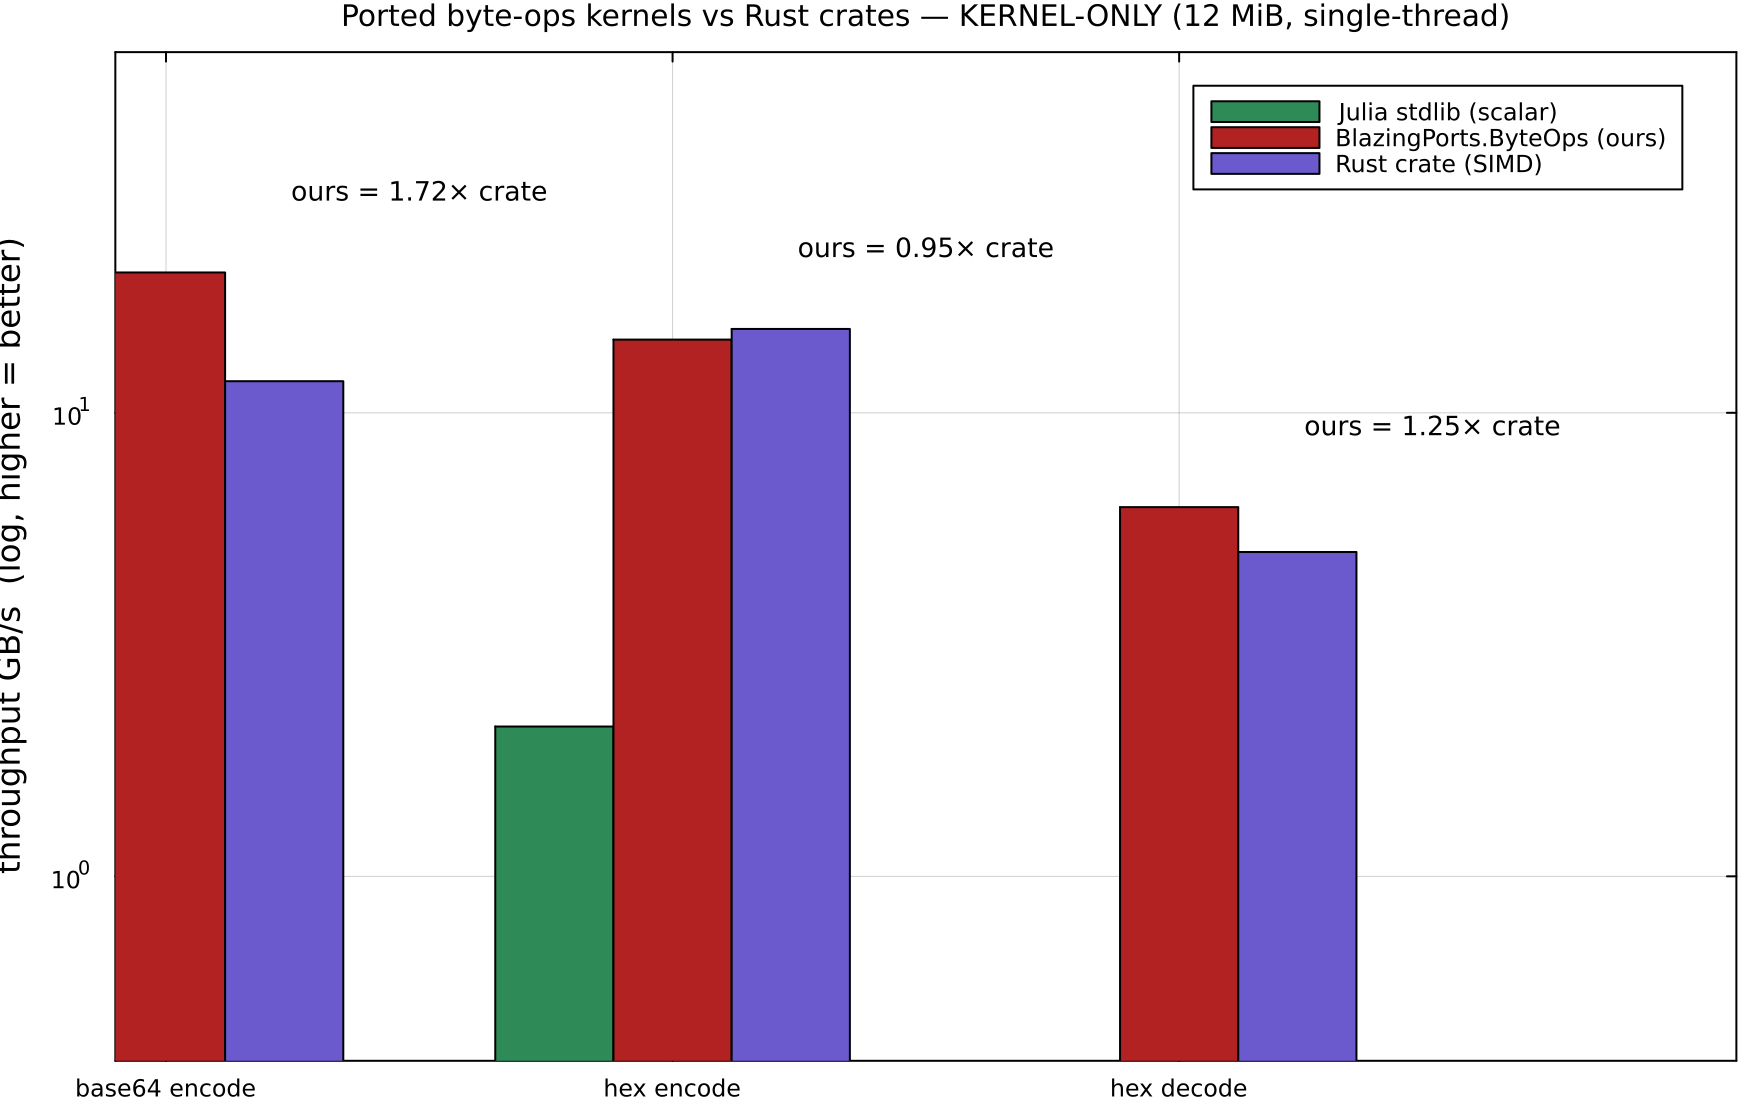
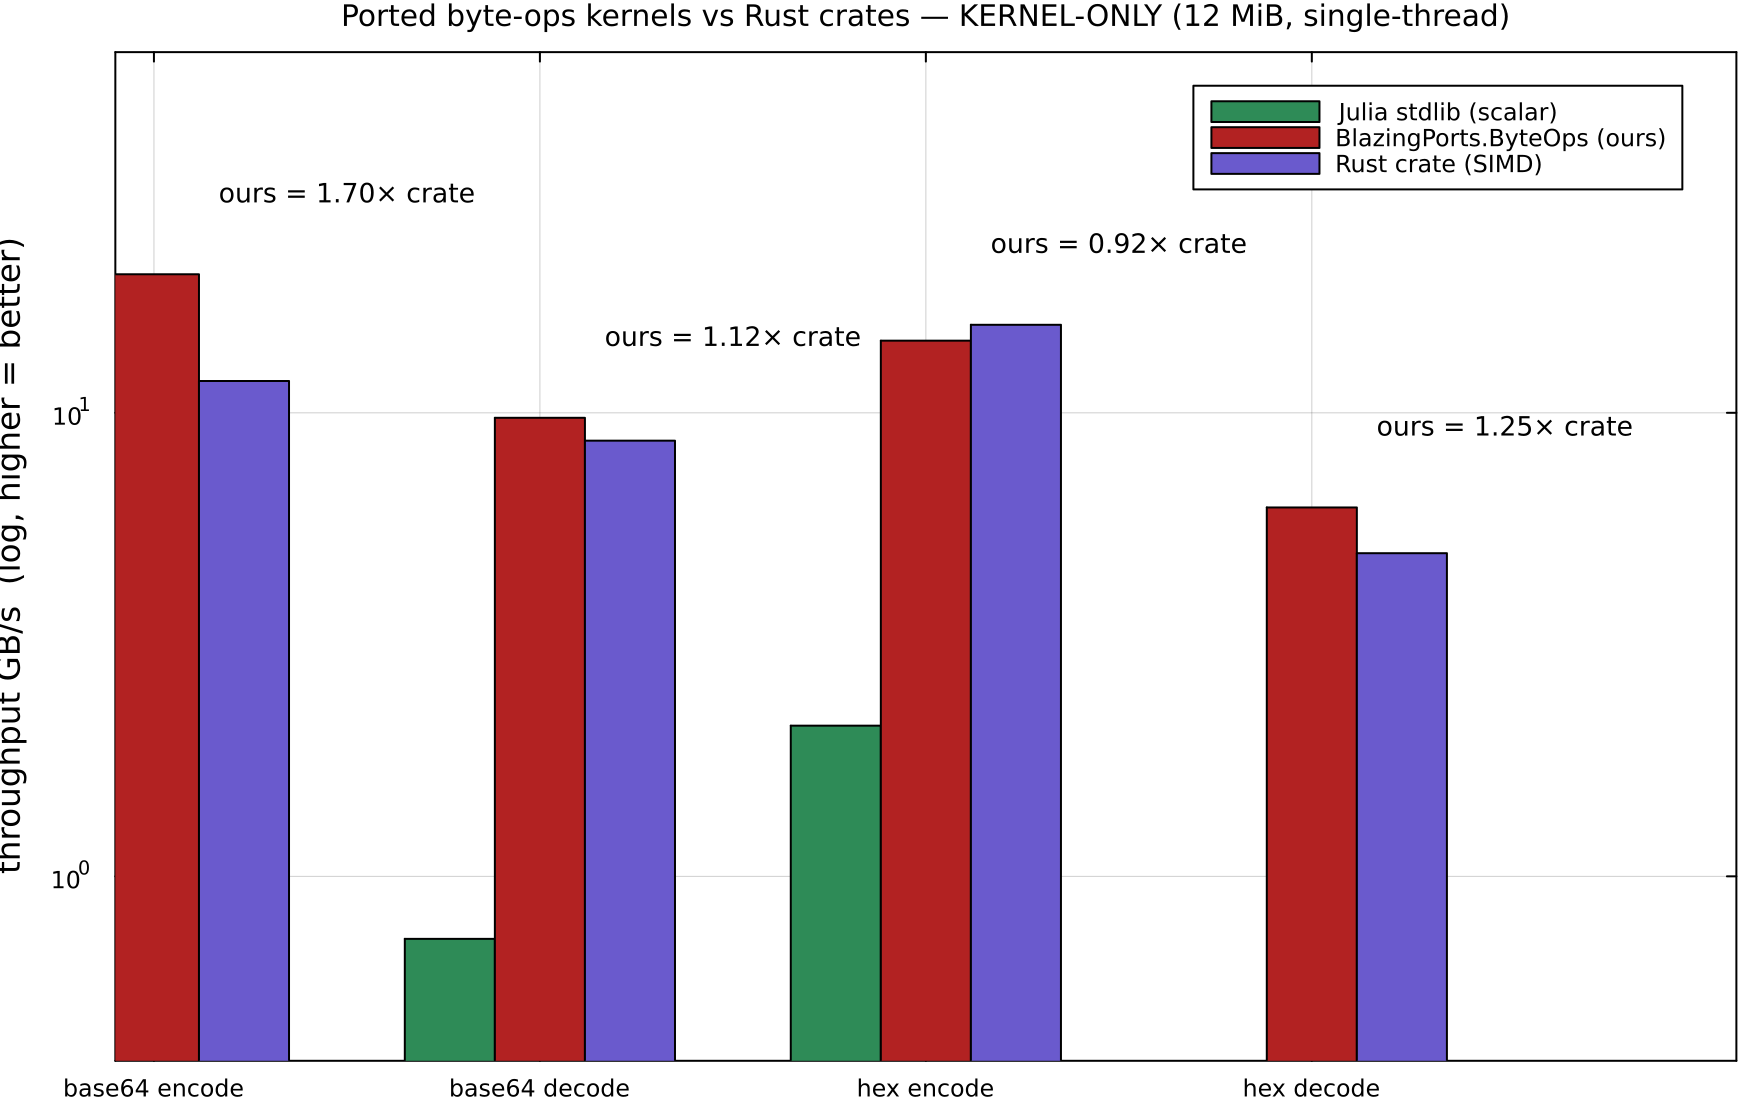
port(byteops): SIMD base64 decode (beats base64-simd 1.12x) — library COMPLETE
base64_decode! : Mula SSE — pshufb char->6bit + 3-LUT validity check
(shiftLUT/maskLUT/bitposLUT + cmpeqb for '/' and the (M&bit)==0 invalid test),
pmaddubsw+pmaddwd packing 4x6bit->3 bytes, pshufb compaction; scalar tail handles
'=' padding via a 256-entry decode LUT. base64_decode!(out)->Bool + base64_decode
->Vector wrapper (throws on bad length / invalid). Byte-exact with
Base64.base64decode (~32k cases + SIMD/scalar invalid-rejection; @user 5/5).

Kernel-only (preallocated): base64 decode 9.8 vs base64-simd 8.7 = 1.12x (BEATS),
13x over base64decode. The byte-ops library is now complete:
  base64 encode 1.70x | base64 decode 1.12x | hex encode ~0.92-0.98x (parity, N=16)
  | hex decode 1.25x  — 3/4 beat the crate, all byte-exact, both decoders validating.
probe + plot extended to 4 ops. Only remaining opt: AVX2-widen hex encode.

diff --git a/docs/src/ports.md b/docs/src/ports.md
@@ -211,11 +211,17 @@ in the timed region). The picture inverts:
 
 ![Ported byte-ops kernels vs Rust crates, kernel-only](assets/byteops_ports.png)
 
-- **base64 encode: ours ~20 vs `base64-simd` ~11.7 GB/s = 1.7× — the pure-Julia kernel beats the crate**
-  (27× over `Base64.base64encode`). Muła AVX2 (offset-load + asymmetric `vpshufb`, no cross-lane `vpermd`).
-- **hex encode: ours ~14.3 vs `faster-hex` ~15 GB/s = ~parity** (0.95–0.98×, both bandwidth-bound), 7× `bytes2hex`.
-- **hex decode: ours 6.3 vs `faster-hex` 5.0 GB/s = 1.25× — beats the crate**, 43× over `hex2bytes`;
-  validates (rejects bad chars / odd length) SIMD-wide. (`base64_decode` is the remaining kernel.)
+The full library (4 kernels, all byte-exact, decode paths validating) lands at or above the crate:
+
+- **base64 encode: ours ~20 vs `base64-simd` ~11.7 GB/s = 1.70× — beats the crate** (28× over
+  `Base64.base64encode`). Muła AVX2 (offset-load + asymmetric `vpshufb`, no cross-lane `vpermd`).
+- **base64 decode: ours 9.8 vs `base64-simd` 8.7 GB/s = 1.12× — beats the crate** (13× over `base64decode`).
+  Muła SSE (`pshufb` char→6bit + validate, `pmaddubsw`/`pmaddwd` pack 4×6bit→3 bytes).
+- **hex encode: ours ~14.3 vs `faster-hex` ~15 GB/s = ~parity** (0.92–0.98× across runs, both
+  bandwidth-bound, 7× `bytes2hex`; N=16 — an AVX2 widening would close the last ~8%).
+- **hex decode: ours 6.3 vs `faster-hex` 5.0 GB/s = 1.25× — beats the crate**, 43× over `hex2bytes`.
+
+Both decoders validate (reject bad chars / bad length) SIMD-wide.
 
 The "27× base64 gap" from the probe above was **not a kernel gap** — it timed a 21 MiB `Vector` allocation +
 `String()` + forced GC *inside* the loop. Three attempts to "fix the kernel" (removing the `vpermd`, a 2×

diff --git a/docs/src/index.md b/docs/src/index.md
@@ -21,7 +21,7 @@ fundamental trade-off. Every result below is single-threaded (`julia -t 1`, `tas
 | **simd-json** | JSON.jl ≥1.6 + stage-1 SIMD POC (fork) | tape 0.66×; stage-1 kernel ~28× scalar; **~4× simd-json on long-string JSON**, ~0.85× short | ⚠ **Gap / POC** (+ fixed StrictMode F32) |
 | **regex** | Base `Regex` (PCRE2, C) | regex crate **13×** (alternation) / **54×** (backtracking+anchor); 1.3–1.5× simple patterns | ⚠ **Gap** — but PCRE2(C)-vs-Rust; pure-Julia engine is a massive port |
 | **simdutf8** | `Utf8.isvalid_utf8` (ours) | **beats the crate both regimes**: multibyte 1.05× (11× Base), ASCII 0.96–1.01× simdutf8 (AVX2 + prefetch); byte-exact | ✅ **PORTED** (pure-Julia lemire SIMD) — found **StrictMode F33 + F34** |
-| **base64** (encode) | `ByteOps.base64_encode!` (ours) | **kernel beats `base64-simd` 1.71×** (20.1 vs 11.8, preallocated), 15× Base; byte-exact. The "27×" was an alloc artifact | ✅ **PORTED** (AVX2 Muła) — decode/hex next |
+| **base64** (enc+dec) | `ByteOps.base64_encode!`/`base64_decode!` (ours) | **kernel beats `base64-simd`: encode 1.70×, decode 1.12×** (preallocated), 28×/13× Base; byte-exact. The "27×" was an alloc artifact | ✅ **PORTED** (Muła AVX2/SSE) |
 | **hex** (enc+dec) | `ByteOps.hex_encode!`/`hex_decode!` (ours) | encode ~parity faster-hex (0.95–0.98×); **decode 1.25× (beats)**, 43× `hex2bytes`; byte-exact + validating | ✅ **PORTED** (SIMD pshufb) |
 | **bytecount** | `count(==(b), v)` | **0.87× (parity)** — Julia auto-vectorizes | ⏭ Skip — Julia already SIMD |
 | **lexical** (float parse) | `parse(Float64, _)` | **3×** (13 vs 38 Mfloat/s) | ⚠ Gap — branchy parse, lower priority |